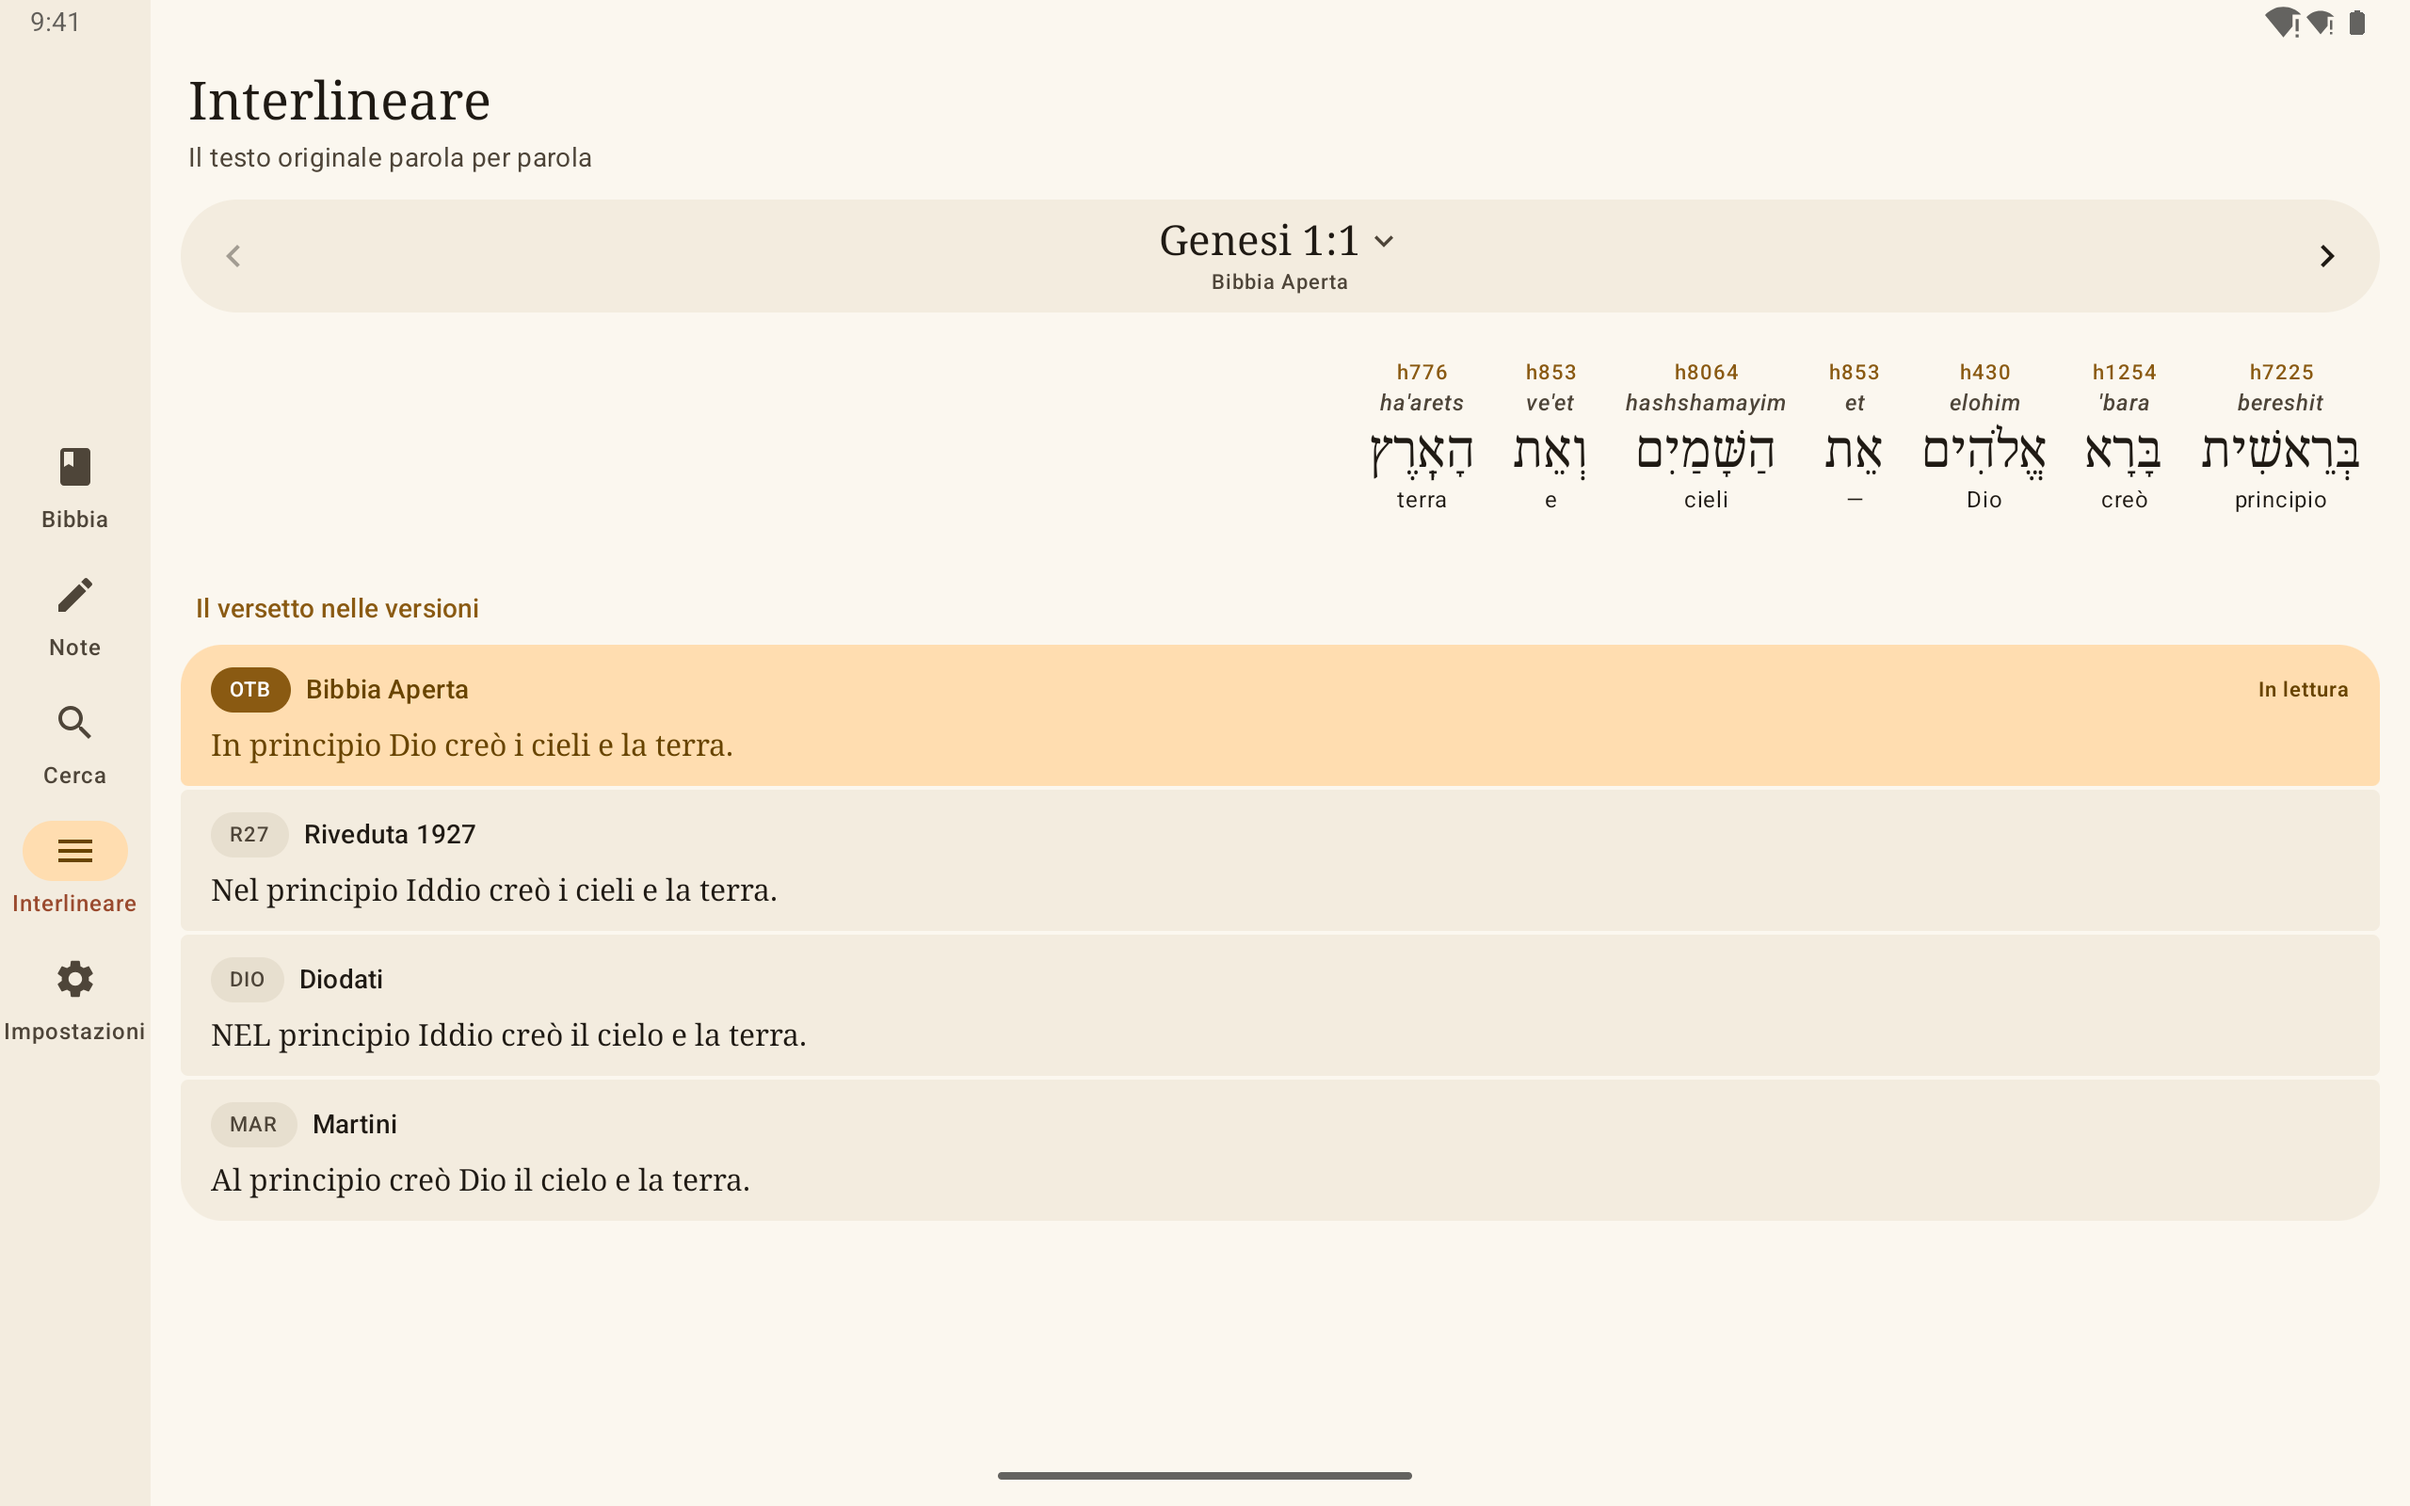
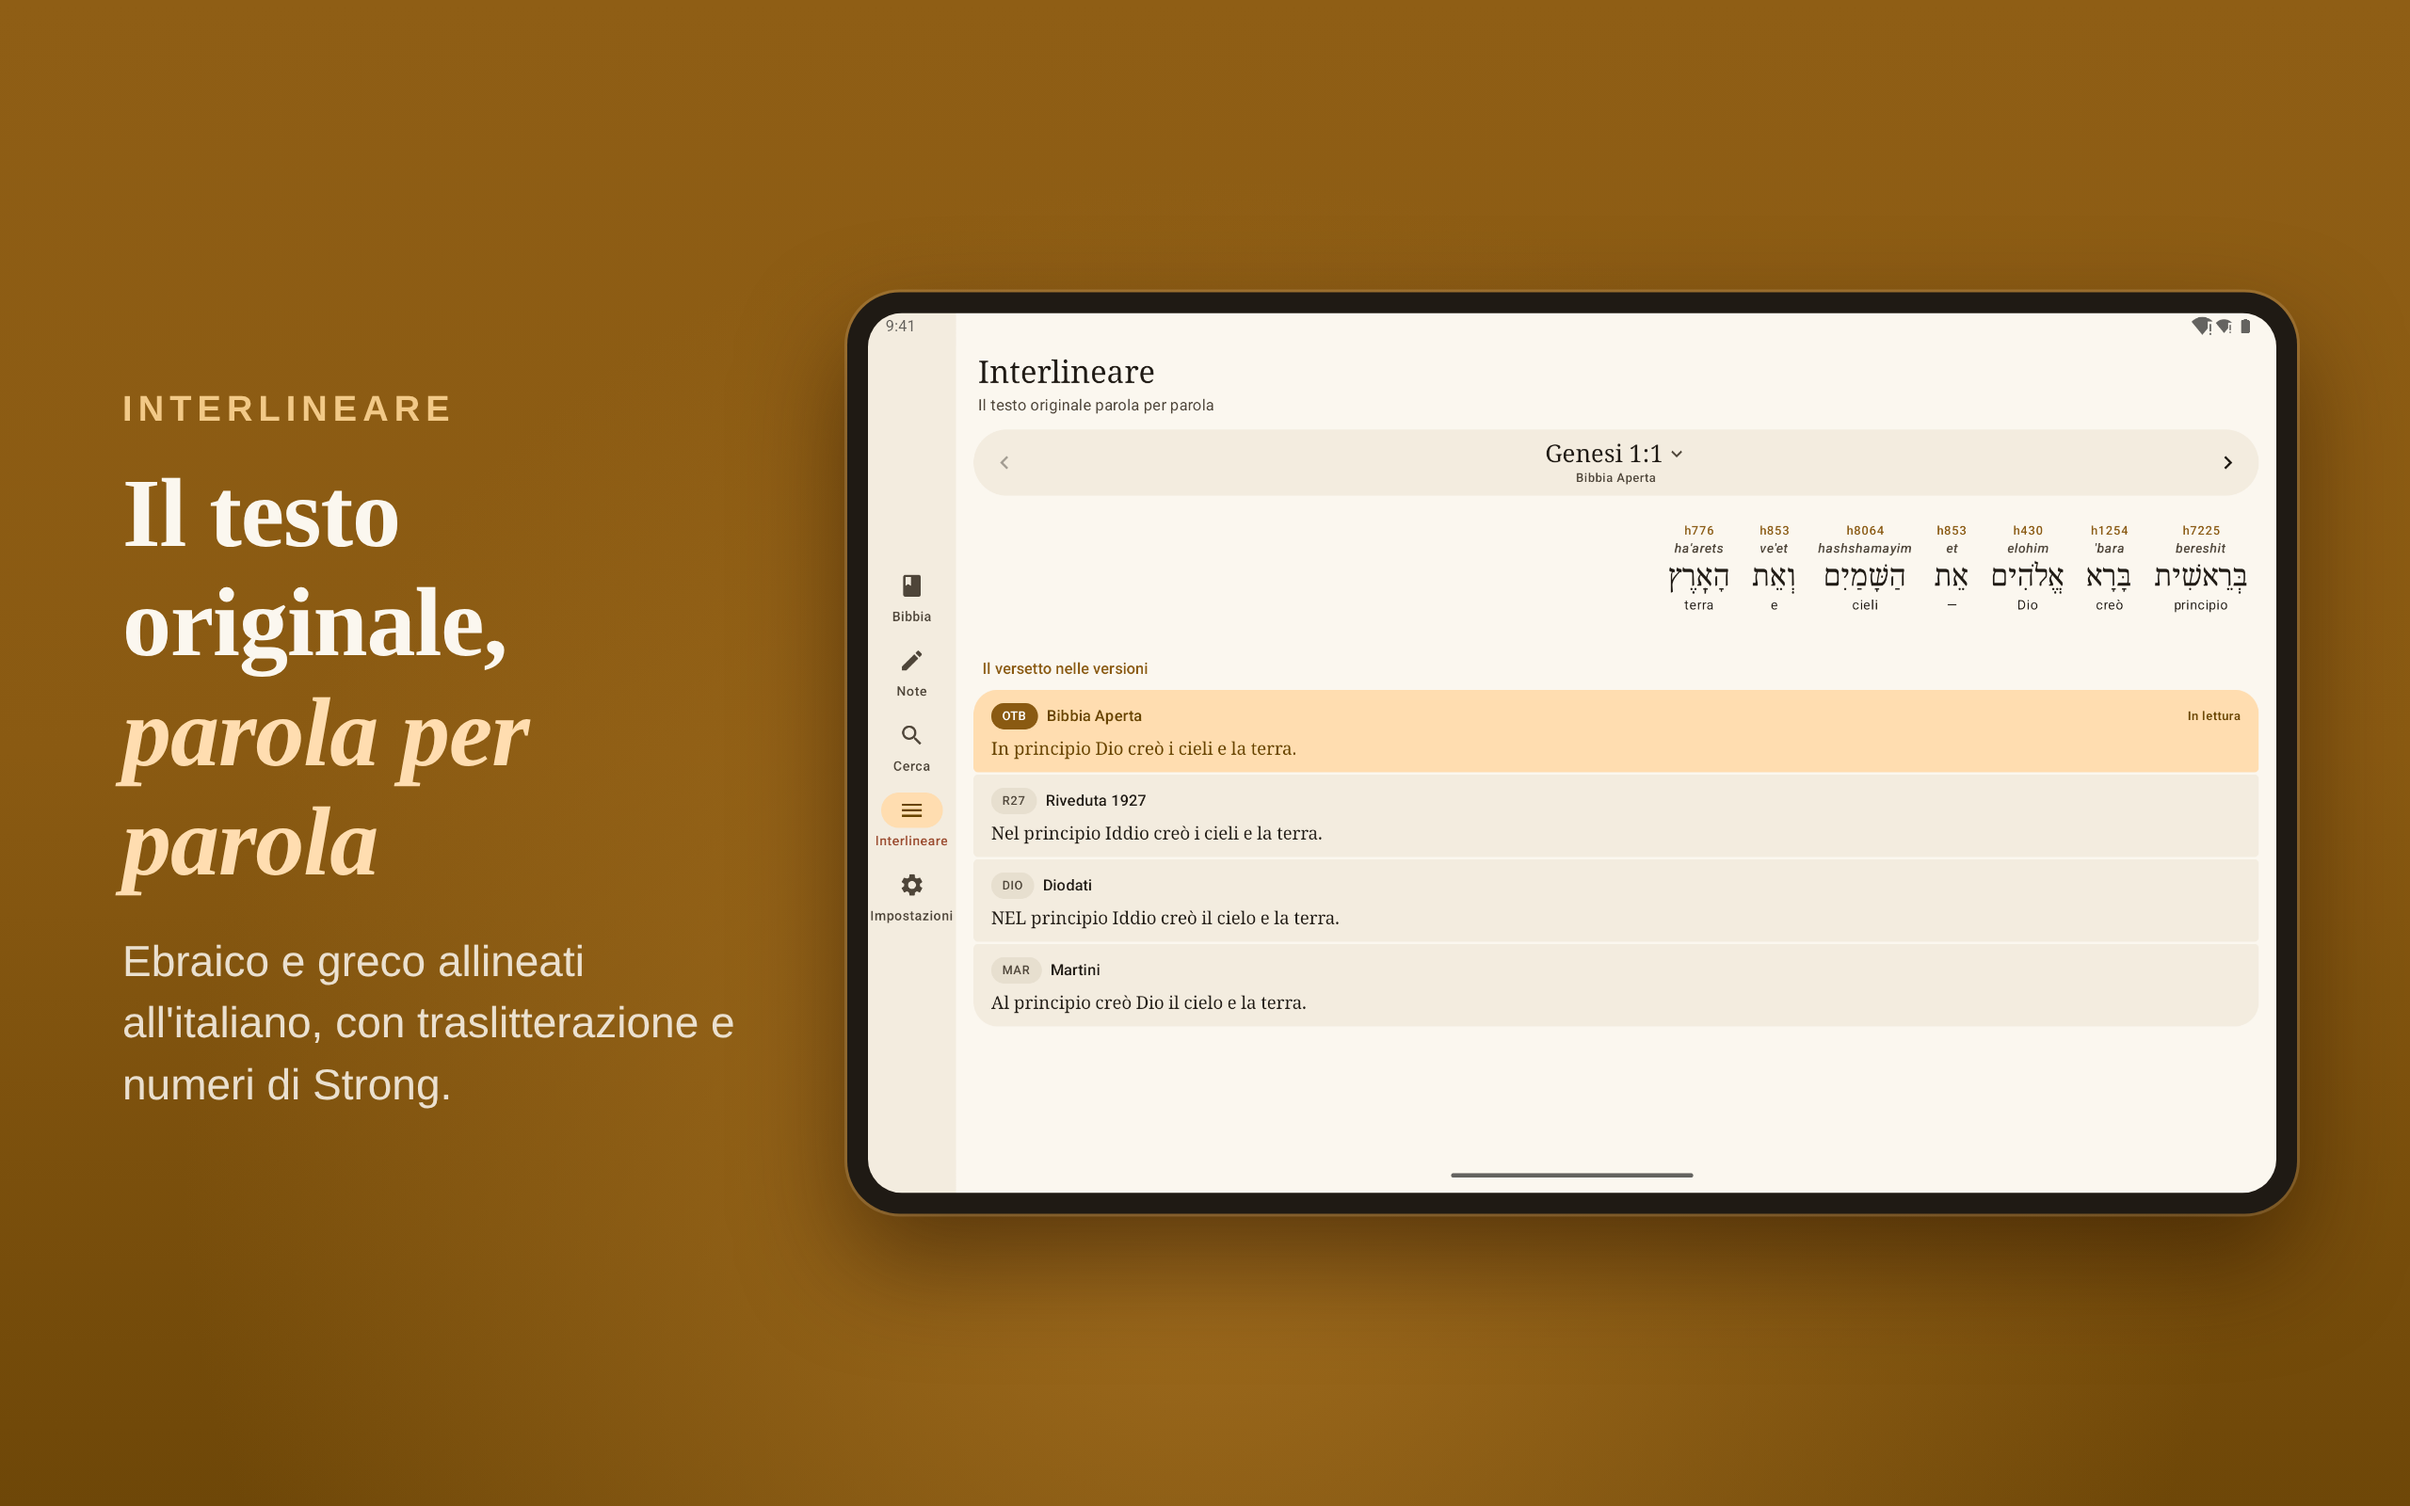
Screenshot dello store con cornice, titolo e testo su fondo oro
tools/store_frames/render.py mette gli screenshot grezzi (ora in
fastlane/raw-screenshots/) in una cornice di dispositivo su fondo oro, con
titolo e testo da captions.json, e scrive i PNG 24 bit dello store.
store_screenshots.sh salva i grezzi lì e chiama il render alla fine.

Claude-Session: https://claude.ai/code/session_01NiAEn1C886MXNN5Dbb12oZ

diff --git a/tools/store_frames/render.py b/tools/store_frames/render.py
@@ -1,0 +1,117 @@
+#!/usr/bin/env python3
+"""Grafiche degli screenshot per il Play Store (task R07).
+
+Prende gli screenshot grezzi in fastlane/raw-screenshots/<cartella>/<n>.png (li scrive
+tools/store_screenshots.sh), li mette in una cornice di dispositivo su fondo oro con titolo e
+testo da captions.json e salva i PNG finali (24 bit, senza trasparenza) in
+fastlane/metadata/android/it-IT/images/<cartella>/<n>.png.
+
+Uso:  python3 tools/store_frames/render.py
+Richiede Playwright per Python con Chromium (pip install playwright; playwright install chromium)
+e ImageMagick (magick o convert) per togliere il canale alfa.
+"""
+import html
+import json
+import re
+import shutil
+import subprocess
+import tempfile
+from pathlib import Path
+
+from playwright.sync_api import sync_playwright
+
+HERE = Path(__file__).resolve().parent
+ROOT = HERE.parents[1]
+RAW = ROOT / "fastlane/raw-screenshots"
+OUT = ROOT / "fastlane/metadata/android/it-IT/images"
+
+# cartella -> (larghezza, altezza, layout)
+FORMATS = {
+    "phoneScreenshots": (1080, 1920, "phone"),
+    "sevenInchScreenshots": (1200, 1920, "seven"),
+    "tenInchScreenshots": (2560, 1600, "ten"),
+}
+
+CSS = """
+@font-face { font-family: 'Noto Serif'; font-weight: 600; font-style: normal; src: url('fonts/noto-serif-latin-600-normal.woff2'); }
+@font-face { font-family: 'Noto Serif'; font-weight: 600; font-style: italic; src: url('fonts/noto-serif-latin-600-italic.woff2'); }
+@font-face { font-family: 'Noto Sans'; font-weight: 400; src: url('fonts/noto-sans-latin-400-normal.woff2'); }
+@font-face { font-family: 'Noto Sans'; font-weight: 600; src: url('fonts/noto-sans-latin-600-normal.woff2'); }
+* { box-sizing: border-box; }
+html, body { margin: 0; }
+.canvas { position: relative; overflow: hidden; width: %(w)dpx; height: %(h)dpx;
+  background: radial-gradient(ellipse at 50%% 78%%, #A06C1E 0%%, rgba(160,108,30,0) 60%%),
+              linear-gradient(180deg, #8F5E15 0%%, #8A5A12 50%%, #6E4708 100%%); }
+.copy { position: absolute; color: #FBF7EF; }
+.kicker { font: 600 %(kicker)dpx/1 'Noto Sans', sans-serif; letter-spacing: .16em; text-transform: uppercase;
+  color: #F2C987; margin: 0 0 %(gap1)dpx; }
+h1 { font: 600 %(title)dpx/1.12 'Noto Serif', serif; margin: 0 0 %(gap2)dpx; letter-spacing: -.01em; }
+h1 em { font-style: italic; color: #FFDDB0; }
+p { font: 400 %(text)dpx/1.42 'Noto Sans', sans-serif; margin: 0; color: rgba(251,247,239,.86); }
+.device { position: absolute; background: #1F1A14; padding: %(bezel)dpx; border-radius: %(radius)dpx;
+  box-shadow: 0 0 0 3px rgba(255,221,176,.18), 0 50px 110px rgba(40,20,0,.55); }
+.device img { display: block; width: 100%%; border-radius: %(inner)dpx; }
+"""
+
+LAYOUTS = {
+    # testo in alto, dispositivo centrato che esce dal bordo inferiore
+    "phone": dict(kicker=30, title=82, text=38, gap1=26, gap2=28, bezel=18, radius=74, inner=58,
+                  copy="left:90px; right:90px; top:110px;",
+                  device="left:130px; width:820px; top:560px;"),
+    "seven": dict(kicker=32, title=88, text=40, gap1=28, gap2=30, bezel=18, radius=60, inner=44,
+                  copy="left:100px; right:100px; top:120px;",
+                  device="left:150px; width:900px; top:580px;"),
+    # testo a sinistra, tablet a destra (intero: l'interlineare ebraico sta sul bordo destro)
+    "ten": dict(kicker=38, title=104, text=46, gap1=34, gap2=36, bezel=22, radius=56, inner=36,
+                copy="left:130px; width:700px; top:50%; transform:translateY(-50%);",
+                device="left:900px; width:1540px; top:50%; transform:translateY(-50%);"),
+}
+
+
+def title_html(title: str) -> str:
+    return re.sub(r"\*(.+?)\*", r"<em>\1</em>", html.escape(title))
+
+
+def page(w, h, layout, cap, shot: Path) -> str:
+    L = LAYOUTS[layout]
+    css = CSS % dict(w=w, h=h, **{k: v for k, v in L.items() if isinstance(v, int)})
+    return f"""<!doctype html><html lang="it"><head><meta charset="utf-8"><style>{css}</style></head><body>
+<div class="canvas">
+  <div class="copy" style="{L['copy']}">
+    <div class="kicker">{html.escape(cap['kicker'])}</div>
+    <h1>{title_html(cap['title'])}</h1>
+    <p>{html.escape(cap['text'])}</p>
+  </div>
+  <div class="device" style="{L['device']}"><img src="{shot.as_uri()}"></div>
+</div></body></html>"""
+
+
+def main() -> None:
+    caps = json.loads((HERE / "captions.json").read_text(encoding="utf-8"))
+    magick = shutil.which("magick") or shutil.which("convert")
+    if not magick:
+        raise SystemExit("serve ImageMagick (magick o convert)")
+    with sync_playwright() as p, tempfile.TemporaryDirectory(dir=HERE) as tmp:
+        browser = p.chromium.launch()
+        for folder, (w, h, layout) in FORMATS.items():
+            shots = sorted((RAW / folder).glob("*.png"), key=lambda f: int(f.stem))
+            (OUT / folder).mkdir(parents=True, exist_ok=True)
+            for shot in shots:
+                cap = caps[int(shot.stem) - 1]
+                src = Path(tmp) / f"{folder}-{shot.stem}.html"
+                src.write_text(page(w, h, layout, cap, shot), encoding="utf-8")
+                tab = browser.new_page(viewport={"width": w, "height": h})
+                tab.goto(src.as_uri())
+                tab.evaluate("document.fonts.ready")
+                tab.wait_for_load_state("networkidle")
+                png = Path(tmp) / f"{folder}-{shot.stem}.png"
+                tab.screenshot(path=str(png))
+                tab.close()
+                dest = OUT / folder / shot.name
+                subprocess.run([magick, str(png), "-alpha", "off", f"PNG24:{dest}"], check=True)
+                print(f"{dest.relative_to(ROOT)}  {w}x{h}")
+        browser.close()
+
+
+if __name__ == "__main__":
+    main()

diff --git a/tools/store_frames/fonts/README.md b/tools/store_frames/fonts/README.md
@@ -1,0 +1,2 @@
+Noto Serif e Noto Sans (sottoinsieme latino, dai pacchetti @fontsource), © The Noto Project
+Authors, licenza SIL Open Font License 1.1: https://openfontlicense.org
